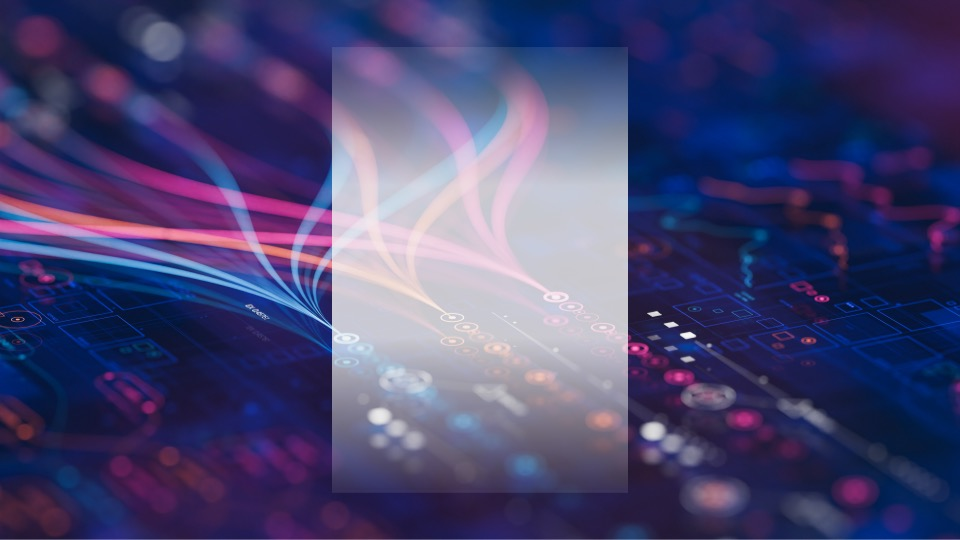
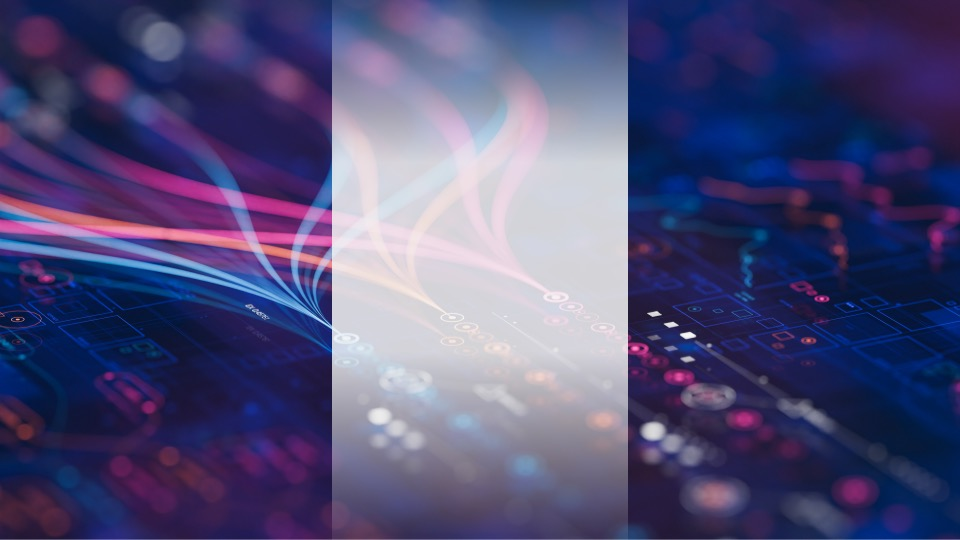
update sidebar colors and image

Changed region(s): [[0.3438, 0.6222, 0.6562, 1.0], [0.3438, 0.0, 0.6562, 0.3259]]

diff --git a/assets/css/custom.scss b/assets/css/custom.scss
@@ -22,18 +22,37 @@ h2 {
 // Sidebar styling - very specific selectors
 .sidebar {
   .sidebar-sticky {
-    .sidebar-about h1 a,
+    // General sidebar links/items remain white
     .sidebar-nav a,
     .sidebar-nav-item,
     a {
       color: rgb(243,244,243) !important;
     }
+    
+    // Title specific styling - new color
+    .sidebar-about h1 a {
+      color: rgb(0,51,141) !important;
+    }
+    
+    // Tagline specific styling - new color
+    .sidebar-about p {
+      color: rgb(0,51,141) !important;
+    }
   }
 }
 
-// Style all sidebar text elements
+// Style most sidebar text elements
 #_sidebar * {
   color: rgb(243,244,243) !important;
+}
+
+// More specific selectors to override the general styling above
+#_sidebar .sidebar-about h1 a {
+  color: rgb(0,51,141) !important;
+}
+
+#_sidebar .sidebar-about p {
+  color: rgb(0,51,141) !important;
 }
 
 // Override links in the sidebar
@@ -41,5 +60,13 @@ h2 {
   color: rgb(243,244,243) !important;
   &:hover, &:focus, &.active {
     color: white !important;
+  }
+}
+
+// Ensure title and tagline links maintain their color even on hover
+.sidebar-about h1 a, .sidebar-about p {
+  color: rgb(0,51,141) !important;
+  &:hover, &:focus {
+    color: rgb(0,51,141) !important;
   }
 }
